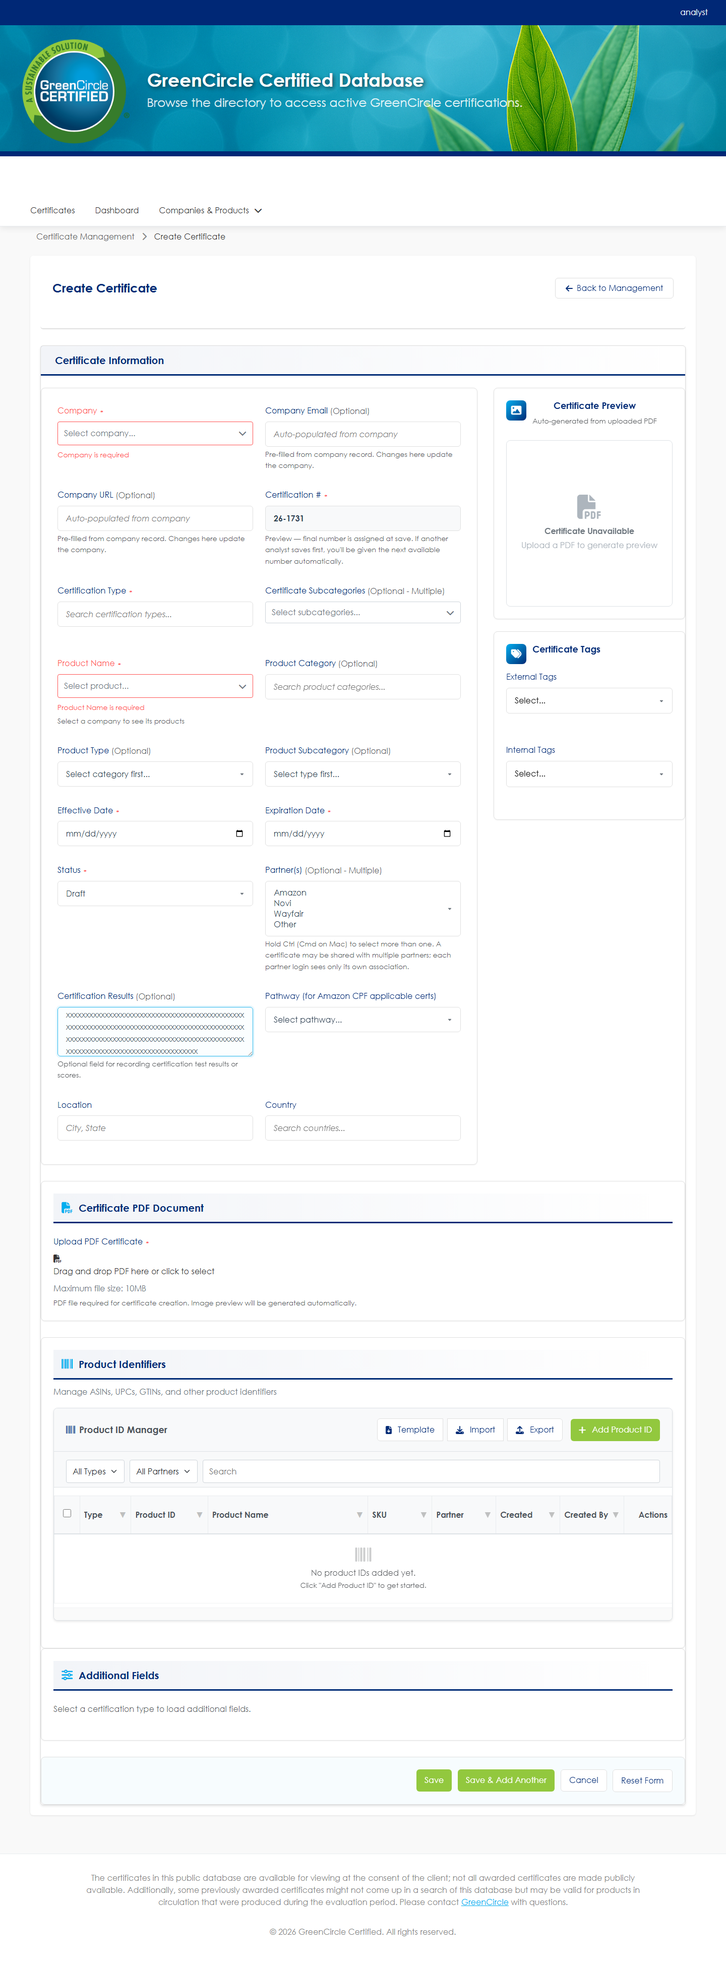
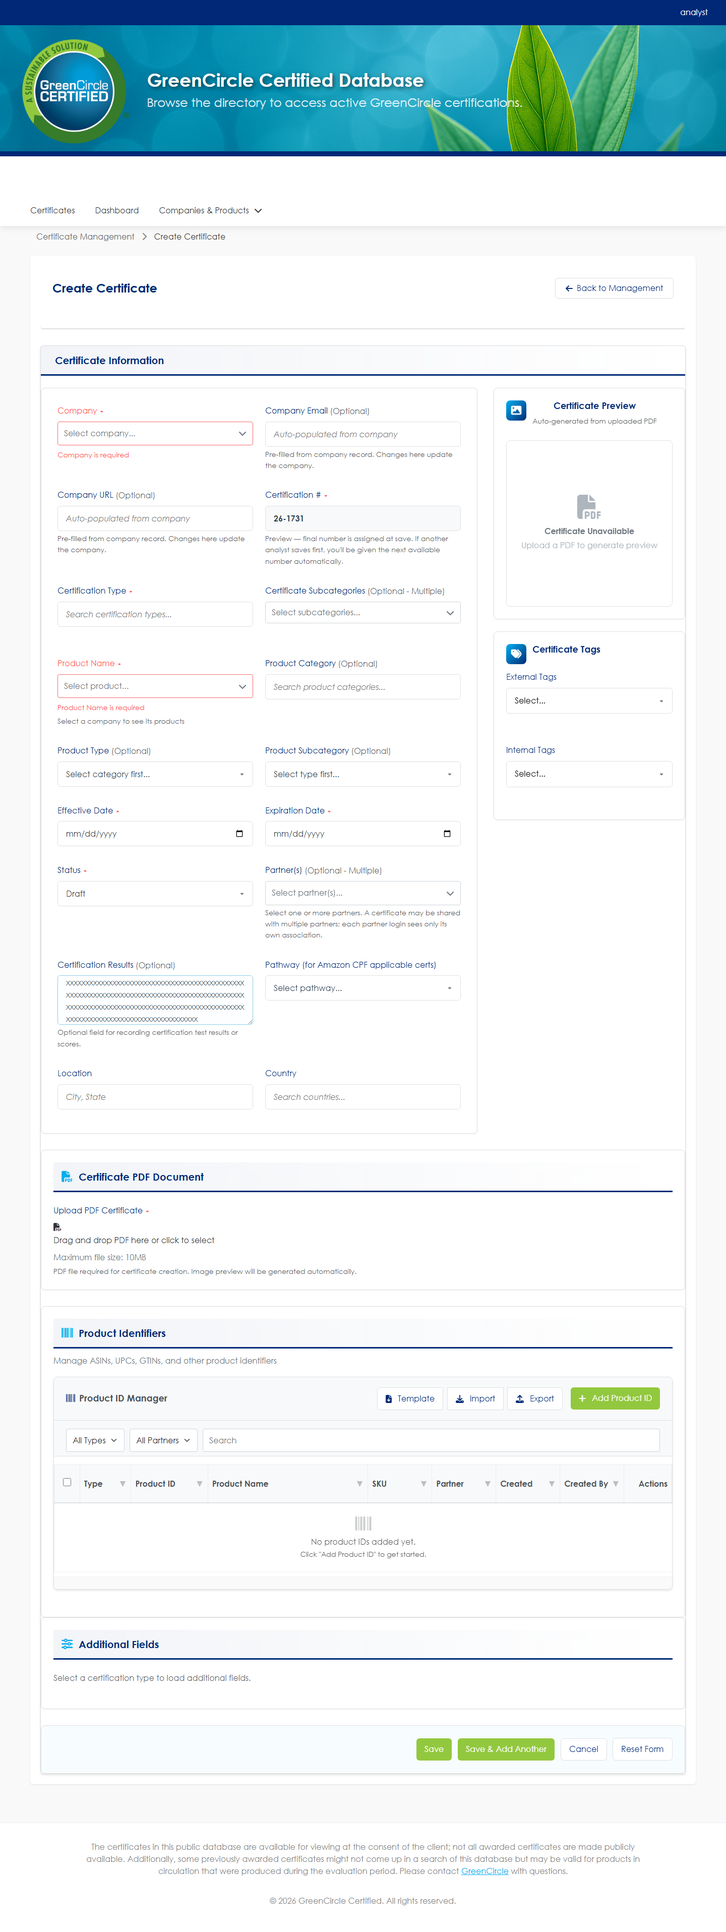
updates

diff --git a/GCCWebApp/Scripts/smoke-prod/cert-product-clickflow.js b/GCCWebApp/Scripts/smoke-prod/cert-product-clickflow.js
@@ -1,0 +1,108 @@
+// Reproduces "Product Names not populating" via the REAL user click flow:
+// open the Company custom dropdown, CLICK a company option (not a programmatic
+// change event), then check whether Product Names populate. Tests several
+// companies, not just the first.
+// LOCALHOST ONLY. Run: node Scripts/smoke-prod/cert-product-clickflow.js
+const { chromium } = require('playwright');
+const { login, BASE } = require('./_lib/smoke-template');
+
+const results = [];
+const rec = (id, status, notes = '') => {
+  results.push({ id, status });
+  console.log(`  [${status}] ${id}${notes ? ' :: ' + notes : ''}`);
+};
+
+async function pickCompanyByClick(page, companyText) {
+  // Open the company custom dropdown.
+  const ok = await page.evaluate(() => {
+    const sel = document.getElementById('CompanyId');
+    const wrapper = sel ? sel.closest('.custom-dropdown-wrapper') : null;
+    const trig = wrapper ? wrapper.querySelector('.custom-dropdown-trigger') : null;
+    if (trig) { trig.click(); return true; }
+    return false;
+  });
+  if (!ok) return { opened: false };
+  await page.waitForTimeout(300);
+  // Type into the dropdown's search box to filter, then click the matching option.
+  await page.evaluate((txt) => {
+    const sel = document.getElementById('CompanyId');
+    const wrapper = sel.closest('.custom-dropdown-wrapper');
+    const search = wrapper.querySelector('input[type="text"], .custom-dropdown-search, input');
+    if (search) { search.value = txt; search.dispatchEvent(new Event('input', { bubbles: true })); }
+  }, companyText);
+  await page.waitForTimeout(400);
+  const clicked = await page.evaluate((txt) => {
+    const sel = document.getElementById('CompanyId');
+    const wrapper = sel.closest('.custom-dropdown-wrapper');
+    const panel = wrapper.querySelector('.custom-dropdown-panel');
+    const rows = Array.from(panel.querySelectorAll('.custom-dropdown-option'));
+    const match = rows.find(r => r.textContent.trim().toLowerCase().includes(txt.toLowerCase())) || rows[0];
+    if (match) { match.click(); return match.textContent.trim(); }
+    return null;
+  }, companyText);
+  return { opened: true, clicked };
+}
+
+async function checkProducts(page) {
+  await page.waitForTimeout(1400); // fetch + rebuild
+  return await page.evaluate(() => {
+    const sel = document.getElementById('ProductId');
+    const wrapper = sel ? sel.closest('.custom-dropdown-wrapper') : null;
+    const panel = wrapper ? wrapper.querySelector('.custom-dropdown-panel') : null;
+    const trig = wrapper ? wrapper.querySelector('.custom-dropdown-trigger') : null;
+    // Open product dropdown to count visible rows.
+    if (trig) trig.click();
+    const rows = panel ? panel.querySelectorAll('.custom-dropdown-option').length : -1;
+    if (trig) trig.click(); // close again
+    return {
+      nativeCount: sel ? Array.from(sel.options).filter(o => o.value).length : -1,
+      uiRows: rows,
+      help: (document.getElementById('productHelpText') || {}).textContent || '',
+    };
+  });
+}
+
+(async () => {
+  const browser = await chromium.launch({ headless: true });
+  const page = await (await browser.newContext({ viewport: { width: 1440, height: 1600 } })).newPage();
+  try {
+    await login(page, 'analyst');
+    await page.goto(BASE + '/Certificate/Create', { waitUntil: 'domcontentloaded', timeout: 60000 });
+    await page.waitForTimeout(1000);
+
+    // Discover several companies that DO have products (via API) to test the click flow.
+    const companies = await page.evaluate(async () => {
+      const sel = document.getElementById('CompanyId');
+      const opts = Array.from(sel.options).filter(o => o.value);
+      const withProducts = [];
+      for (const o of opts) {
+        if (withProducts.length >= 5) break;
+        try {
+          const r = await fetch(`/Certificate/GetProductsByCompany?companyId=${o.value}`, { credentials: 'include' });
+          const j = await r.json();
+          if (j.success && j.data && j.data.length > 0) withProducts.push({ id: o.value, text: o.textContent.trim(), n: j.data.length });
+        } catch { /* ignore */ }
+      }
+      return withProducts;
+    });
+    console.log('Companies with products to test:', JSON.stringify(companies));
+
+    for (const c of companies) {
+      // Fresh page each time to avoid prior-selection state bleed.
+      await page.goto(BASE + '/Certificate/Create', { waitUntil: 'domcontentloaded', timeout: 60000 });
+      await page.waitForTimeout(800);
+      const pick = await pickCompanyByClick(page, c.text);
+      const prod = await checkProducts(page);
+      const pass = prod.nativeCount > 0 && prod.uiRows > 0;
+      rec(`click "${c.text}" (api n=${c.n})`, pass ? 'PASS' : 'FAIL',
+        `picked="${pick.clicked}" native=${prod.nativeCount} ui=${prod.uiRows} help="${prod.help}"`);
+    }
+  } catch (e) {
+    rec('fatal', 'FAIL', e.message + '\n' + (e.stack || ''));
+  } finally {
+    await browser.close();
+  }
+  const fail = results.filter(r => r.status === 'FAIL').length;
+  console.log(`\n[cert-product-clickflow] ${results.filter(r => r.status === 'PASS').length} PASS / ${fail} FAIL`);
+  process.exitCode = fail === 0 ? 0 : 1;
+})();

diff --git a/GCCWebApp/Controllers/ProductController.cs b/GCCWebApp/Controllers/ProductController.cs
@@ -46,11 +46,6 @@ namespace GCCWebApp.Controllers
             return View();
         }
 
-        public IActionResult Categories()
-        {
-            return View();
-        }
-
         [HttpGet]
         public async Task<IActionResult> GetDashboardStats()
         {

diff --git a/GCCWebApp/docs/tracking/shipped-2026-06.md b/GCCWebApp/docs/tracking/shipped-2026-06.md
@@ -8,9 +8,13 @@ Period: 2026-06-01 → ongoing
 
 | | Count |
 |---|---|
-| **Total fixes shipped this month** | **35** — 30 DEF + 5 CR. June batch DEF-225/226/227/229/230/231/232/233/234, then DEF-235, DEF-237, QC #106 (DEF-238 + **CR-020**), DEF-240, DEF-242, the 2026-06-05 bundle DEF-246/247/248/249/250/251, the follow-ups DEF-253 + DEF-254, the 6-08/6-09 bundles DEF-255/256/258/260 (DEF-259 superseded by 260), **CR-184** (product-ID export), and the mid-June batch deployed 6-18/19: DEF-264/265/266/**267** + **CR-171** (multi-partner certs + isolation) + **CR-187** (normalized search) + **CR-186** (product-identity split, going-forward code) |
+| **Total fixes shipped this month** | **37** — 32 DEF + 5 CR. June batch DEF-225/226/227/229/230/231/232/233/234, then DEF-235, DEF-237, QC #106 (DEF-238 + **CR-020**), DEF-240, DEF-242, the 2026-06-05 bundle DEF-246/247/248/249/250/251, the follow-ups DEF-253 + DEF-254, the 6-08/6-09 bundles DEF-255/256/258/260 (DEF-259 superseded by 260), **CR-184** (product-ID export), and the mid-June batch deployed 6-18/19: DEF-264/265/266/**267** + **CR-171** (multi-partner certs + isolation) + **CR-187** (normalized search) + **CR-186** (product-identity split, going-forward code) |
 | **Deployed + verified live on gccwebapp.com (2026-06-18/19)** | **Mid-June batch — DEF-267 + CR-171 (multi-partner) + CR-187 (normalized search) + DEF-264/265/266 + CR-186.** Code deployed; both pending migrations applied (auto-migrate); **CR-171 backfill run on prod** (CertificatePartners 1→155, CertificateProductIdPartners 0→992, missing_M2M=0). **Post-deploy regression 8/8 PASS** (`midjune-batch-prod-regression.js`, read-only): internal tile API 249 certs (schema OK), CR-187 search works, DEF-267 8-char Edit renders, partner@amazon.com sees 19 scoped certs (no co-partner leak). Canonical artifact: `GCCWebApp-deploy-20260619-0001.zip` (apply-migrations.sql scripted from prod high-water — avoids the EF9 `EXEC(CONCAT)` bug; `deploy.ps1` gained `-FromMigration` + local ef 8.0.11). |
+| **Regression verification — 2026-06-22** (localhost re-run of the full Certificate Create/Edit smoke suite **after** the DEF-271 cache-busting + DEF-272 removal landed in the tree) | **All green — no regressions from the cache-busting/removal work.** `partner-multiselect.js` **21/21** (Create+Edit), `cert-product-clickflow.js` **5/5** (real click-through-the-dropdown across 3M/Acme/Alcon/Amazon/Amazon Devices), `cert-product-populate.js` **9/9** (Create+Edit, native + custom-dropdown + Edit pre-fill), `cert-create-validations.js` **25/0/2-benign** (the 2 WARNs are the documented baseline — Status defaults to *Draft* so it's never empty-on-submit; email pattern allows TLD-less `a@b`), `cert-date-range-validation.js` **4/4** (Create), `cert-edit-date-range-validation.js` **7/7** (Edit, cert `28-0002`). Confirms the Product Name cascade (DEF-271), partner multi-select, field validations, and Expiration-after-Effective rule all still work end-to-end post-change. Verification only — no code change. |
 | **Pending deploy 2026-06-22** (code-only, no migration; **postdates the 1007.zip — fold into the next rebuild**) | **DEF-269** — Partner API `GET /api/v1/certificates/search` usability fix. The optional `term`/`status` query filters were non-nullable params (implicitly `[Required]` under .NET 8), so an empty `?term=` returned **HTTP 400**; and the `status` filter literal-matched the *internal* lifecycle status, so a partner passing `?status=Active` (the only status they're ever shown) matched **0** rows. Made both params nullable and scoped the `status` filter to non-partner callers only (partners are already constrained to public statuses). Server-only, **no migration**. localhost-verified `def269-search-optional-params.js` **11/11** (empty-term → 200 full set; `status=Active` → 6 certs, was 0; contract-clean). Found by the 2026-06-22 Amazon partner-API test (`amazon-partner-api-local.js`, **45/45** — the Amazon GS1 data path was already correct + isolation-clean). *(Companion finding DEF-270 — partner download has no PDF-generation fallback — left OPEN/triage, needs a product decision.)* |
+| **Pending deploy 2026-06-22** (code-only, no migration; **fold into the next rebuild**) | **DEF-272** — Removed the dead `/Product/Categories` page. It was a scaffolded-but-never-finished admin screen: full view markup + 12 KB CSS + backend endpoints existed, but its **only** client script (`productCategories.js`) was never written (zero git history), so the entirely JS-driven UI rendered an empty shell and 404'd the missing script. **Not linked from any navigation** (reachable only by direct URL), and product categories are handled elsewhere (types on `/Admin/ProductTypes`, product CRUD on `/Product/Management`). Surfaced by the DEF-271 cache-busting sweep. Deleted the view, the CSS, and the `ProductController.Categories()` action after confirming zero inbound references. Build clean; localhost-verified `/Product/Categories` + CSS now 404, `/Product/Management` unaffected. Code-only, **no migration**. |
+| **Pending deploy 2026-06-22** (code-only, no migration; sweep of `_Layout` + 13 admin/management views) | **DEF-271 follow-up — site-wide cache-busting sweep.** Extended the DEF-271 fix beyond the Certificate views: added `asp-append-version="true"` to every `~/js/` `<script>` in **`Views/Shared/_Layout.cshtml`** (site-wide — `main`/`auth`/`admin-core`/`accessibility-enhancements`, the highest-blast-radius scripts) **+ 13 admin/management views** (UserManagement, ProductManagement [also replaced a fragile manual `?v=5`], Product/Management, Company/Management, CertificateFields, CSFAttributes, Tags, ProductTypes, RoleManagement, PartnerAPI, GCCAPI, GoogleAnalytics; Product/Categories was in this set but is now deleted per DEF-272). Permanently prevents the stale-cached-JS class of ghost-defect on these pages. Live-verified `?v=<hash>` on Home/_Layout + Product/Management + Company/Management; the auth/dashboard tier (Dashboard, Login, TwoFactorPreferences, CreateUser) was intentionally left for a later pass. Code-only, **no migration**. |
+| **Pending deploy 2026-06-22** (code-only, no migration; **fold into the next rebuild alongside the 1007.zip working set**) | **DEF-271** — Certificate Create/Edit JS not cache-busted, so a stale cached `certificate-inline-create.js` left the **Product Name** dropdown empty even after a Company was selected ("Product Names are not populating"). The six form scripts on both views were referenced **without** `asp-append-version="true"`; when the dropdown-building script changed (its history has repeated Product-Name "break fix" commits), browsers kept the old copy — products loaded into the hidden native `<select>` but the visible custom dropdown never rebuilt. Added the content-hash version stamp to all six scripts on Create **and** Edit so any change forces a re-fetch. Why it slipped past tests: headless Playwright always fetches fresh JS (cascade passed 9/9 + 5/5 click-flow), so the defect only shows against a warm browser cache — exactly the user's case. Verified post-restart: all 6 scripts emit `?v=<hash>` on both views (12/12) and the cascade still passes 5/5. Repro/regression: `cert-product-populate.js`, `cert-product-clickflow.js`. *Follow-up flagged: sweep the rest of `Views/` for other `<script>` tags missing `asp-append-version`.* |
 | **Pending deploy 2026-06-22 — NEXT batch** (`GCCWebApp-deploy-20260622-1007.zip`, 60.4 MB / 335 files; supersedes the deleted `…-1514.zip` which covered only item 1) | **Two Certificate Create + Edit enhancements, code-only, no migration (Gate 7 no-op):** **(1) Expiration-after-Effective-Date validation.** Both dates were independently `[Required]` but nothing enforced the relationship — a cert could save expiring **before/on** its effective date. Server-side `CertificateEditViewModel : IValidatableObject` (`ExpirationDate.Date <= EffectiveDate.Date` rejected; shared by Create+Edit, both gate on `ModelState.IsValid`) + live client-side `validateCertDateRange()` on each date field's `change`. Strictly-after. Smokes: `cert-date-range-validation.js` 4/4 (Create), `cert-edit-date-range-validation.js` 7/7 (Edit), full `cert-create-validations.js` 25/0/2-benign. **(2) Partner(s) control → checkbox dropdown.** Replaced the native Ctrl-click `<select multiple>` (CR-171 UX-backlog item) with a Company-style searchable dropdown using **checkboxes**, **no "Add" option** (partners can't be created from the cert form) — per client ask. New `wwwroot/js/partner-multiselect.js`; native `<select>` stays source-of-truth so the hidden `PartnerIds` CSV the POST handler consumes is unchanged; Edit pre-select honored; stale "Hold Ctrl" helper text corrected. Smoke `partner-multiselect.js` **21/21** (Create+Edit). Both proactive enhancements (no client QC). |
 | Deployed + verified live on gccwebapp.com (2026-06-01) | 7 — read-only 10/10 (DEF-225/226/227/229/231/232) + live FUNCTIONAL DEF-231 6/6 & DEF-230 11/11 (self-cleaning throwaway data) |
 | Deployed 2026-06-03 (`…-1221.zip`) | DEF-235, DEF-237, QC #106 (DEF-238 + CR-020 `UserCompanyId`) — CR-020 prod migration applied + login restored (DEF-239) |

diff --git a/GCCWebApp/docs/tracking/defect-register.md b/GCCWebApp/docs/tracking/defect-register.md
@@ -83,6 +83,35 @@ Test artifacts: `qc159-live-check/older-defs-grouped-sweep.js` + `older-defs-gro
 
 ## Open / Recent
 
+### DEF-272 — `/Product/Categories` is a non-functional orphan page: its only client script `wwwroot/js/admin/productCategories.js` was never created, so the entirely JS-driven UI (table, Add/Edit/Import/Export/search/filter/bulk/modal) does nothing
+
+- **Date:** 2026-06-22
+- **Severity:** Low (the page is **not linked from any navigation** — reachable only by typing `/Product/Categories` directly — so day-to-day user impact is minimal; but the route IS live and renders a broken shell + fires a 404 for the missing script).
+- **Status:** **Fixed locally (Option B — removed) — pending next deploy.** Shawn chose to delete the orphan scaffolding rather than build it out. Verified on `localhost:5101`: `/Product/Categories` now returns **404**, `/css/product-categories.css` returns **404**, and `/Product/Management` is unaffected; build clean (0 errors). See **Resolution** below.
+- **QC Ref:** none (client). **Found by:** Anuki internal — the [[DEF-271]] `Views/` cache-busting sweep (2026-06-22). `asp-append-version` emitted **no** `?v=` hash for this one script, which surfaced that the file is absent from disk; investigation showed it was **never** in git history.
+- **Bucket:** Bug (unfinished feature / missing asset) — distinct from a data issue.
+- **What exists (scaffold is ~90% there):** `Views/Product/Categories.cshtml` (full markup — table, search, status/level filters, bulk-actions bar, Add/Edit modal), `wwwroot/css/product-categories.css` (12 KB, present), `ProductController.Categories()` action (`return View()`, line ~49), and the backend data endpoints `ProductController.GetCategories()` (~339) + `GetParentCategories()` (~606). Only the **client controller JS that wires it all together is missing.**
+- **The gap.** `Categories.cshtml:147` is `<script src="~/js/admin/productCategories.js" …>` and that file **does not exist** (`git log --all --follow` finds zero history — it was never committed). The view has **zero inline JS**, and the table/pagination/parent-dropdown bodies are literal `<!-- populated by JavaScript -->` placeholders. With no script, the page loads an **empty table** ("Showing 0 of 0 categories"), the Import/Export/Add buttons and the modal are inert, and the browser logs a 404 for the script. The existing `GetCategories`/`GetParentCategories` endpoints are consumed only by `certificate-inline-create.js` (the cert-form cascade), **not** by this page — so the server side is ready but unused here.
+- **Not linked.** No `asp-action="Categories"` / `/Product/Categories` reference exists in `Views/Shared/` (nav) or elsewhere — confirming this is a scaffolded-but-abandoned page, not a live workflow. (Product **types** are managed on `/Admin/ProductTypes`; product CRUD on `/Product/Management`.)
+- **Decision needed (triage).** **(A) Finish it** — author `wwwroot/js/admin/productCategories.js` to call the existing endpoints and wire the table/modal/filters/bulk actions (sizeable net-new front-end work; only worth it if a dedicated hierarchical-category admin surface is actually wanted, given types already have a page). **(B) Remove it** — delete the orphan view + the `Categories()` action + `product-categories.css` (and this script ref) as dead scaffolding. Recommend confirming with the client whether a standalone Category-management page is on the roadmap before choosing.
+- **Files (if option B / removal):** `Views/Product/Categories.cshtml`, `Controllers/ProductController.cs` (`Categories()` ~49), `wwwroot/css/product-categories.css`. **(if option A / build):** new `wwwroot/js/admin/productCategories.js` against the existing `GetCategories`/`GetParentCategories` (+ category create/update/delete endpoints, which would also need to exist/be added).
+- **Note:** the DEF-271 cache-busting attribute was still correctly applied to this `<script>` tag; it simply can't hash a file that isn't there. Fixing DEF-272 (either option) makes the `?v=` stamp moot (build) or removes the tag (remove).
+- **Resolution (2026-06-22, Option B — removed).** Before deleting, swept the codebase: `product-categories.css` was referenced **only** by this view; the `Categories()` action had **zero** inbound references (no `RedirectToAction`/`Url.Action`/`asp-action`/nav link); the only references to the page anywhere were historical DEF records. Deleted **`Views/Product/Categories.cshtml`**, **`wwwroot/css/product-categories.css`** (both `git rm`), and removed the **`Categories()` action** from `Controllers/ProductController.cs`. Rebuilt clean (0 errors) and confirmed `/Product/Categories` + the CSS both 404 while `/Product/Management` still serves. **Doc-cleanup straggler (low priority):** `docs/tracking/full-spectrum-test-prompt.md` line ~80 lists `Product/Categories` in a DEF-101 icon re-verify checklist — that page no longer exists, so drop it from the checklist on the next docs pass (left as-is for now; it's a test checklist, not code).
+
+### DEF-271 — Certificate Create/Edit JS not cache-busted: a stale cached `certificate-inline-create.js` leaves the Product Name dropdown empty even after a Company is selected ("Product Names are not populating")
+
+- **Date:** 2026-06-22
+- **Severity:** Medium (intermittent + environment-specific — only browsers holding an old cached copy of the script are affected; a fresh browser works. But it recurs every time one of these JS files changes and silently makes a core Create/Edit field look broken).
+- **Status:** **Fixed locally — pending next deploy.** Verified on `localhost:5101`.
+- **QC Ref:** none (client). **Found by:** Anuki internal — Shawn reported "Product Names are not populating when attempting to create a new certificate" (2026-06-22), with the company already selected.
+- **Bucket:** Bug (caching/build hygiene).
+- **Root cause.** On `Views/Certificate/Create.cshtml` and `Views/Certificate/Edit.cshtml`, six form scripts were referenced **without** `asp-append-version="true"` — most importantly `certificate-inline-create.js`, which builds the custom Product Name dropdown and contains the MutationObserver that rebuilds it when the Company→Product cascade appends `<option>`s. When that file changes (its git history has repeated "break fix, defect on Product Name" commits), browsers keep serving the **old cached copy**: products still load into the hidden native `<select#ProductId>`, but the stale script never rebuilds the visible custom dropdown → the user sees an empty Product Name list. Reproduces as "not populating" even though the API and server code are correct.
+- **Why it passed automated tests but failed for the user.** A headless Playwright run always fetches fresh JS, so the cascade passed 9/9 (programmatic) and 5/5 (real click flow across 3M, Acme, Alcon, Amazon, Amazon Devices). The defect only manifests against a warm browser cache — exactly the user's situation.
+- **Fix.** Added `asp-append-version="true"` to all six scripts in **both** views (`product-id-manager.js`, `certificate-custom-fields.js`, `certificate-create.js`, `certificate-inline-create.js`, `partner-multiselect.js` already had it, `searchable-select.js`). ASP.NET now stamps a content-hash `?v=` query string so any change forces a re-fetch.
+- **Files:** `Views/Certificate/Create.cshtml` (script block ~415), `Views/Certificate/Edit.cshtml` (script block ~469).
+- **Verification.** After rebuild + restart, all 6 scripts emit `?v=<hash>` on both Create and Edit (12/12), and the product cascade still passes 5/5 via the real click flow. Repro/regression scripts: `Scripts/smoke-prod/cert-product-populate.js`, `Scripts/smoke-prod/cert-product-clickflow.js`.
+- **Follow-up (DONE — 2026-06-22).** Swept all of `Views/` for `<script src="~/js/...">` tags missing `asp-append-version` and applied the attribute to **`Views/Shared/_Layout.cshtml` (site-wide: `main`/`auth`/`admin-core`/`accessibility-enhancements`) + 13 admin/management views** (UserManagement, ProductManagement [also dropped a fragile manual `?v=5`], Product/Management, Company/Management, Product/Categories, CertificateFields, CSFAttributes, Tags, ProductTypes, RoleManagement, PartnerAPI, GCCAPI, GoogleAnalytics). Live-verified `?v=<hash>` on Home (`_Layout`), Product/Management, Company/Management; remaining `/Admin/*` pages covered by tag-helper parity + on-disk file check (18/19 referenced files present). The 19th — `admin/productCategories.js` — was found **missing from disk**, opened as **[[DEF-272]]**. Tier-3 auth/dashboard views (Dashboard, Login, TwoFactorPreferences, CreateUser) were intentionally left out of this pass per Shawn's chosen scope.
+
 ### DEF-270 — Partner API `GET /api/v1/certificates/{id}/download` has no PDF-generation fallback: returns 404 ("PDF generation not yet implemented") whenever no physical PDF exists for the cert
 
 - **Date:** 2026-06-22

diff --git a/GCCWebApp/docs/tracking/full-spectrum-test-prompt.md b/GCCWebApp/docs/tracking/full-spectrum-test-prompt.md
@@ -77,7 +77,7 @@ Run every documented feature in **`docs/tracking/test-execution-log.md`** (163 Q
 - Partner API DTO projection on every endpoint (list / search / by-id / by-number / GS1 list / GS1 single / PDF download). DEF-103 caught two endpoints that were missed in the 2026-04-21 fix.
 - Tile-view list mode lazy-load (DEF-100) — internal AND external AND public.
 - Tablet 1024px filter UI (DEF-098/099) — single Hide Filters bar, single-click chevron toggle.
-- Import/Export icon arrows (DEF-101) — re-verify on Company/Index, Product/Management, Admin/ProductManagement, Admin/Tags, Admin/UserManagement, Product/Categories, _ProductIdManager.
+- Import/Export icon arrows (DEF-101) — re-verify on Company/Index, Product/Management, Admin/ProductManagement, Admin/Tags, Admin/UserManagement, _ProductIdManager. (`Product/Categories` removed per DEF-272 — orphan page deleted.)
 - `CertificationResults` display formatting (`0.17` → `17%`) on all 6 surfaces: internal detail view, internal tile API, Partner API list/search/single/GS1, product-ID search.
 - Product ID Status cascade (CR-015) — Status column/field/filter must be GONE from UI; cascade fires on cert status change in both directions.
 - Custom Fields rendering — single "Custom Fields" group everywhere, ignore `CustomField.Section`.
